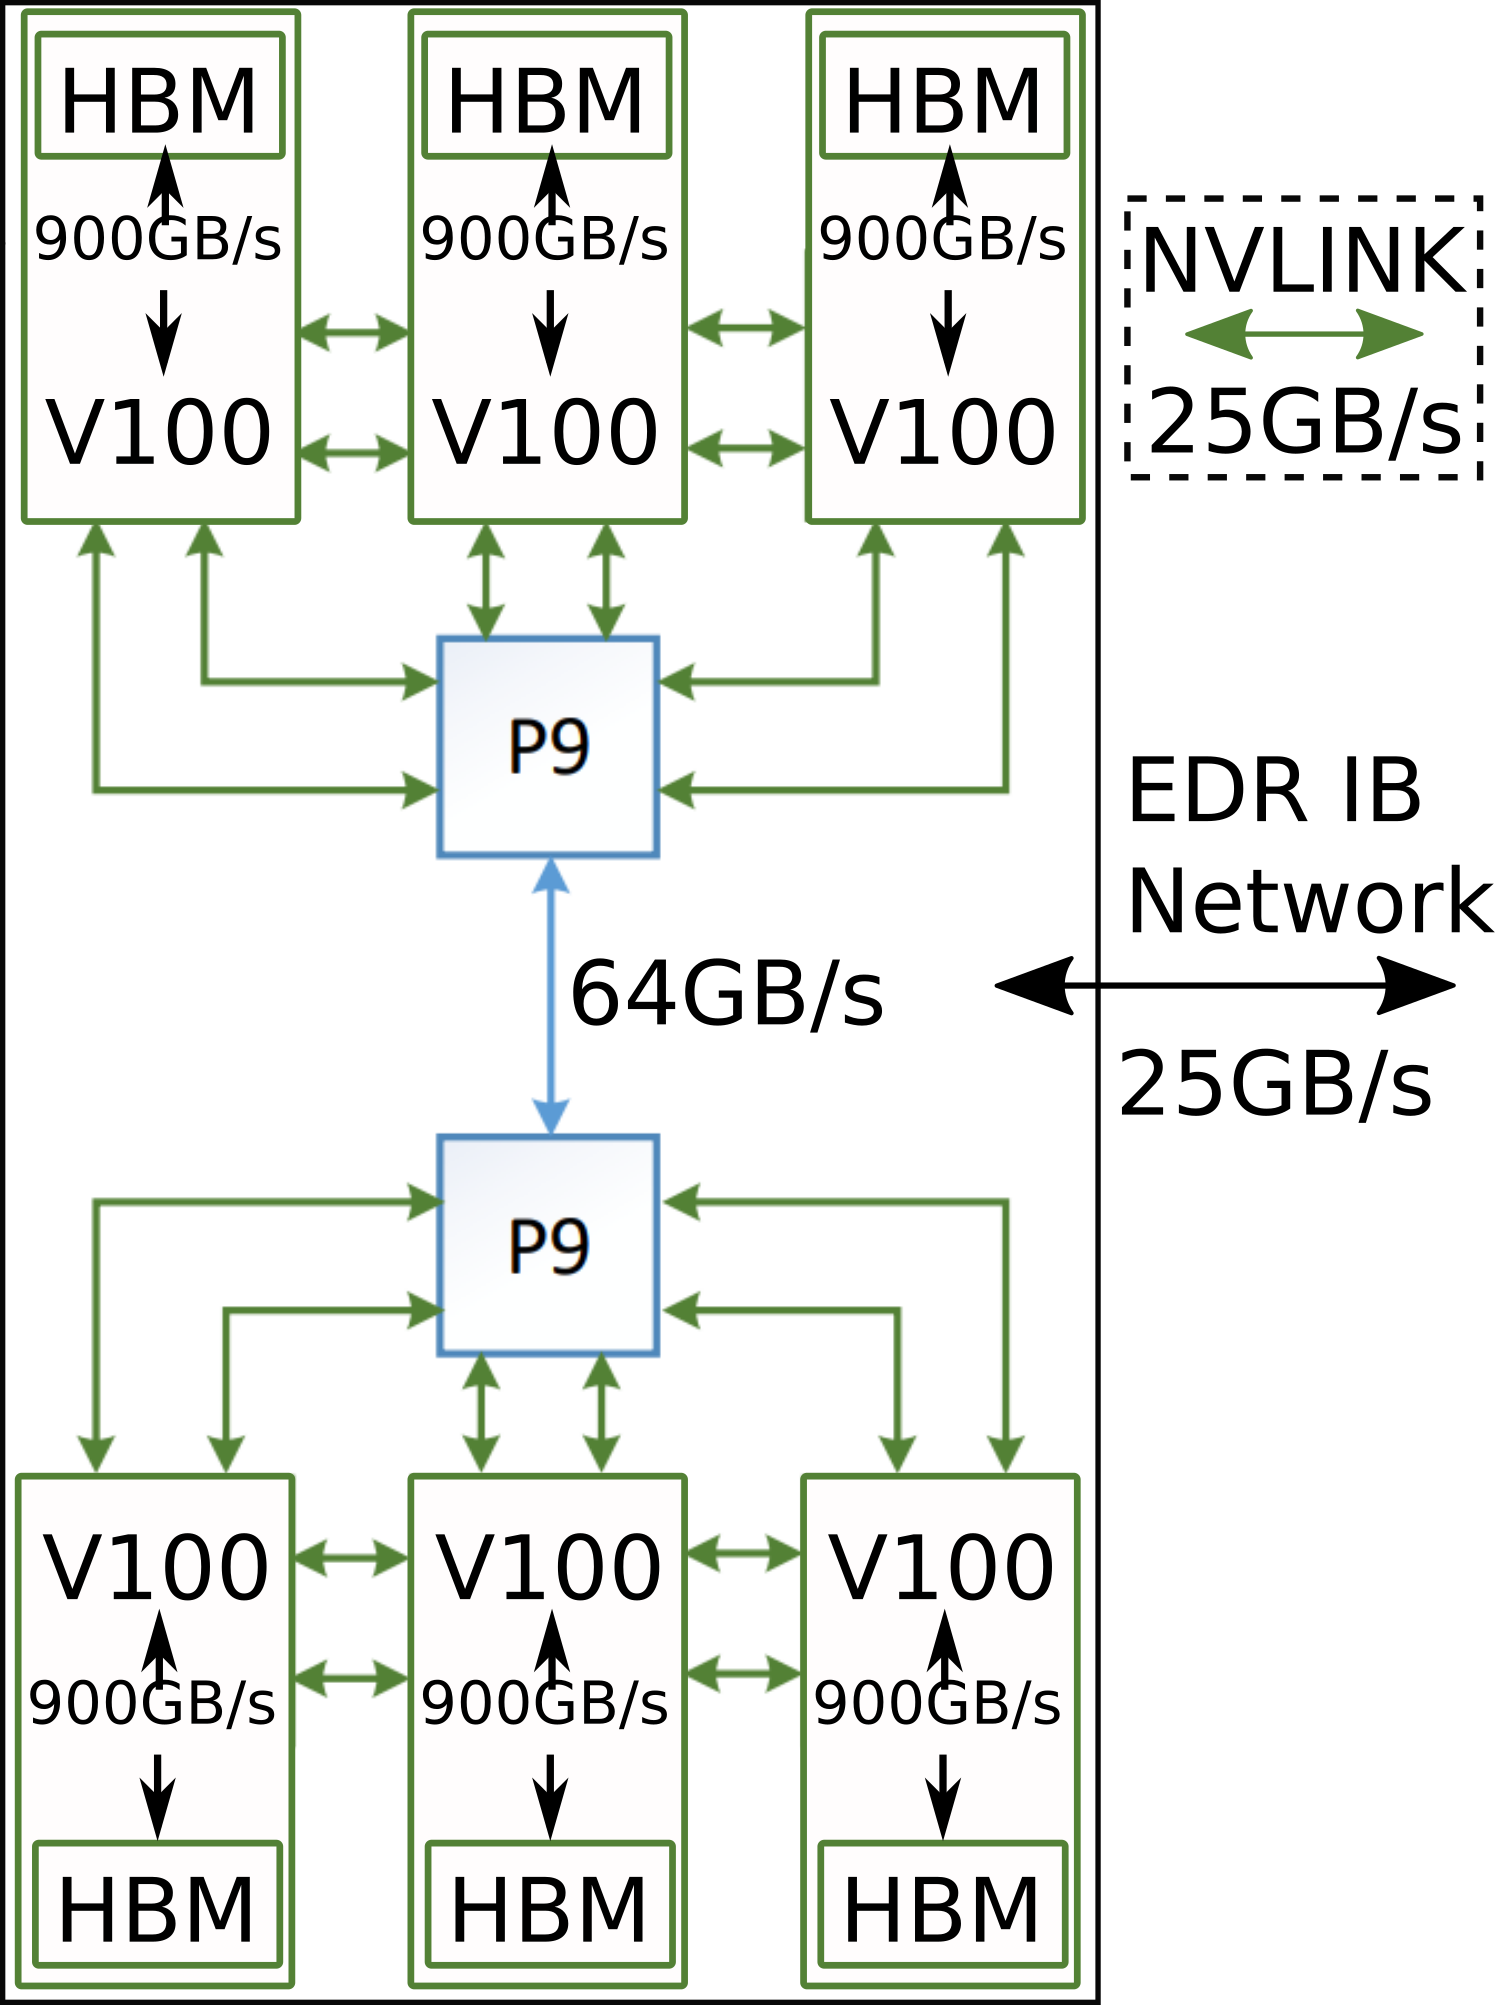
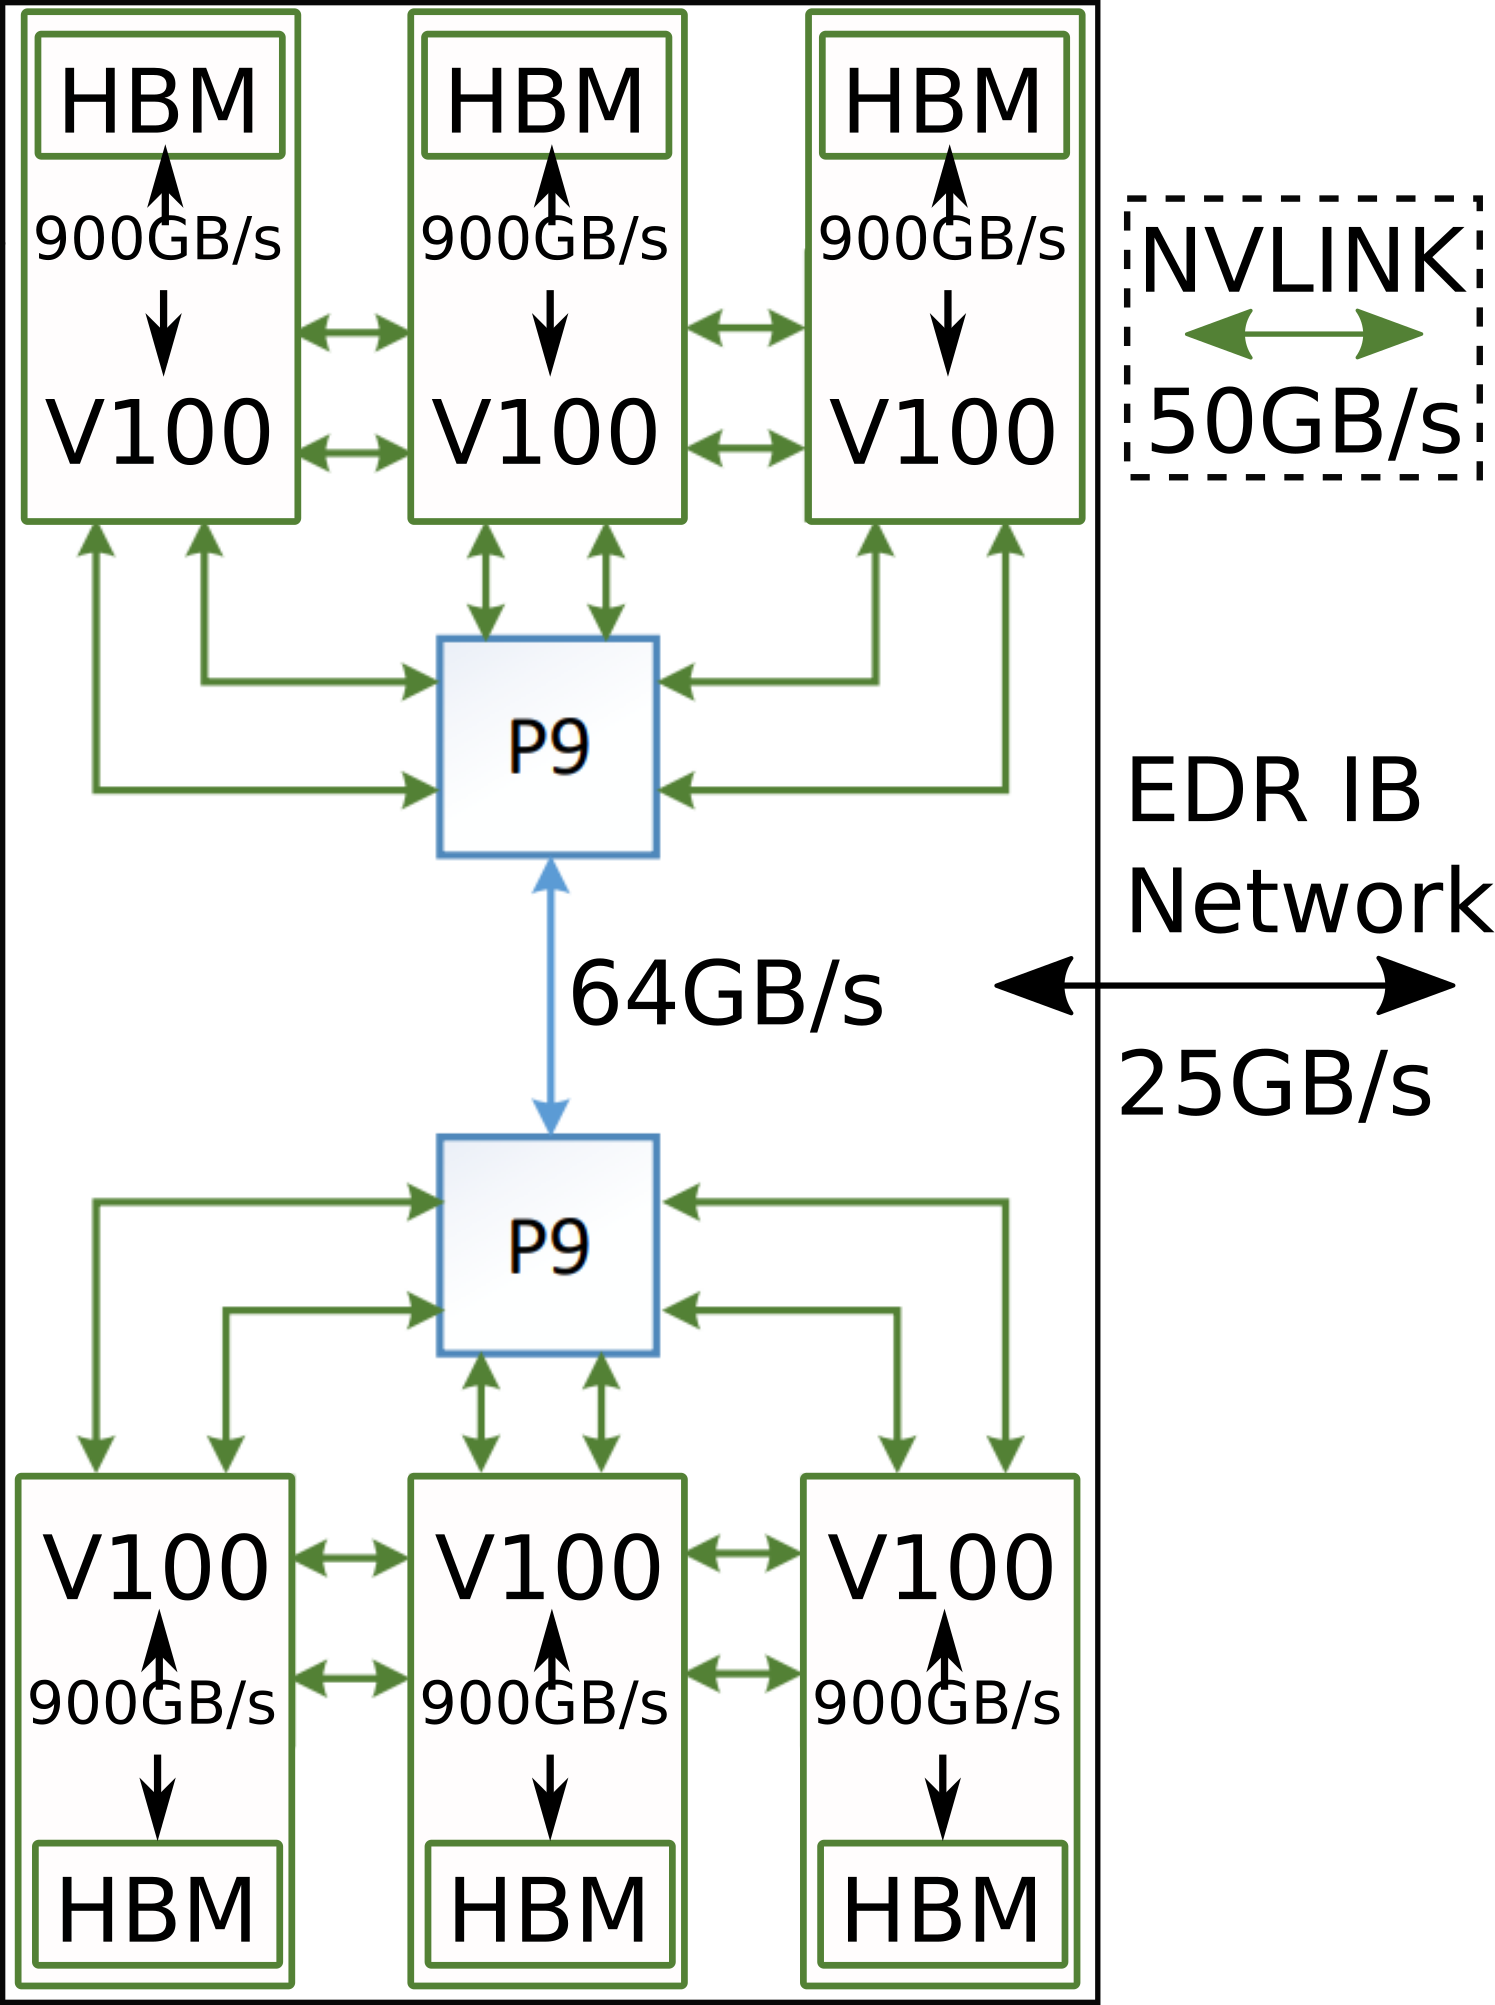
nvlink2.0 is 50Gbps bidirectional

Changed region(s): [[0.7692, 0.1855, 0.8615, 0.2474], [0.7077, 0.9277, 0.7385, 0.9895], [0.7077, 0.0309, 0.7385, 0.0928]]

diff --git a/salishan2019/presentation.tex b/salishan2019/presentation.tex
@@ -167,7 +167,7 @@ Rensselaer Polytechnic Institute
                                     & Triad  & Peak    & Network \\
                                     & (GB/s) & (GB/s)  & \\
         Summit (inter-node)         & 5,130  & 25      & 205     \\
-        Summit (intra-node)         & 855    & 50      & 17      \\
+        Summit (intra-node)         & 855    & 100     & 8.6     \\
         Stampede2                   & 194    & 12      & 17      \\
         Mira                        & 27     & 20      & 1.4 \\
         \hline
